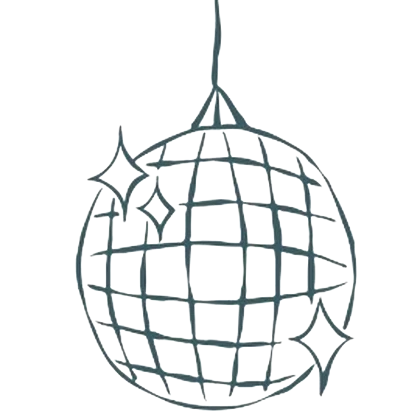
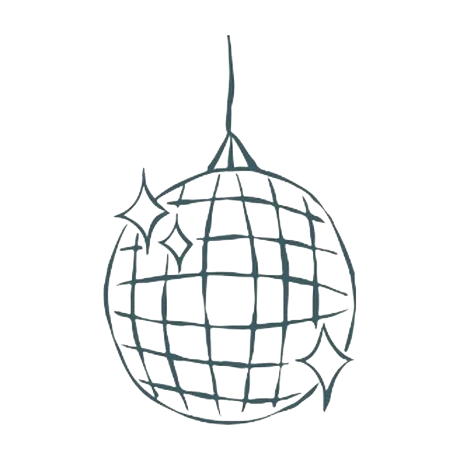
Ilustraciones completas, "Junto a sus familias" y paloma en el pie
Las ilustraciones se recortaban pegadas al trazo y el borde del lienzo las
cortaba: faltaba la punta de la flecha del corazón, las púas del tenedor, y al
coche se le colaba media paloma. Ahora cada icono se recorta al trazo y se
enmarca con un 9% de aire, y hay una comprobación de que ningún trazo toca el
borde. De paso se borran los restos que arrastraban del original: el filete del
marco, letras sueltas y la sartén del rincón del huevo.

- "El Baile & Fiesta" pasa a "La Fiesta".
- Fuera la tarjeta de recomendación de hoteles.
- Fuera la ilustración sobre "¿Dudas?".
- "Junto a sus familias" bajo los nombres, con la misma fórmula que la
  invitación impresa. Se quita dejando `hero.families` vacío.
- La paloma de la lámina de autobuses preside el "¡Te esperamos!" del pie.

Changed region(s): [[0.1548, 0.0, 0.8667, 0.9905]]

diff --git a/config/wedding.ts b/config/wedding.ts
@@ -125,6 +125,11 @@ export const wedding = {
     ],
     announcement: '¡Nos casamos!',
     subtitle: 'Y nos encantaría disfrutar contigo el día más importante de nuestra vida',
+    /**
+     * Fórmula que acompaña a los nombres, como en la invitación impresa.
+     * Cadena vacía para no ponerla.
+     */
+    families: 'Junto a sus familias',
     /** Texto bajo los nombres, antes de la fecha. */
     closing:
       'queremos celebrar este "Sí" rodeados de quienes habéis formado parte de nuestra historia desde el principio',
@@ -225,7 +230,7 @@ export const wedding = {
       },
       {
         time: '23:00 H',
-        title: 'El Baile & Fiesta',
+        title: 'La Fiesta',
         image: '/invitacion/icono-fiesta.webp',
       },
     ],
@@ -324,12 +329,6 @@ export const wedding = {
      */
     cards: [
       {
-        title: 'Recomendación de Hoteles',
-        image: '',
-        body: 'Os recomendamos reservar por el centro de Madrid: los autobuses de vuelta paran en Santiago Bernabéu y en Plaza Colón.',
-        bullets: [] as string[],
-      },
-      {
         title: 'Servicio de Autobuses',
         image: '/invitacion/icono-buses.webp',
         body: 'Habrá autobuses de vuelta del castillo a Madrid, con dos salidas:',
@@ -354,7 +353,7 @@ export const wedding = {
   contact: {
     title: '¿Dudas?',
     /** Ilustración sobre el título. Cadena vacía para no mostrar ninguna. */
-    image: '/invitacion/flor-musica.webp',
+    image: '',
     description:
       'Si tenéis alguna duda, pregunta o necesitáis consultarnos algo, no dudéis en llamarnos o escribirnos por WhatsApp:',
   },
@@ -364,6 +363,8 @@ export const wedding = {
   // ---------------------------------------------------------------------------
   footer: {
     headline: '¡Te esperamos!',
+    /** Ilustración sobre el titular. Cadena vacía para no ponerla. */
+    image: '/invitacion/icono-paloma.webp',
     /** Segunda línea: por defecto los nombres de la pareja. */
     credit: {
       label: 'Jules',

diff --git a/app/page.tsx b/app/page.tsx
@@ -555,6 +555,17 @@ export default function Home() {
               </div>
             </motion.div>
 
+            {wedding.hero.families && (
+              <motion.p
+                variants={{
+                  hidden: { opacity: 0, y: 20 },
+                  visible: { opacity: 1, y: 0, transition: { duration: 1.2, ease: "easeOut" } }
+                }}
+                className="font-display uppercase tracking-[0.28em] text-ink text-[11px] font-semibold mb-6"
+              >
+                {wedding.hero.families}
+              </motion.p>
+            )}
             <motion.p
               variants={{
                 hidden: { opacity: 0, y: 20 },
@@ -1385,6 +1396,11 @@ export default function Home() {
           <div className="absolute inset-0 bg-primary/15 pointer-events-none z-0" />
 
           <div className="max-w-2xl mx-auto px-6 relative z-10">
+            {wedding.footer.image && (
+              <div className="relative w-24 h-24 md:w-28 md:h-28 mx-auto mb-2 brightness-0 invert opacity-85">
+                <Image src={wedding.footer.image} alt="" fill className="object-contain" referrerPolicy="no-referrer" />
+              </div>
+            )}
             <span
               className="text-[clamp(2.6rem,13vw,4.5rem)] leading-[1.15] block mb-6 text-cream drop-shadow-sm font-serif"
             >
